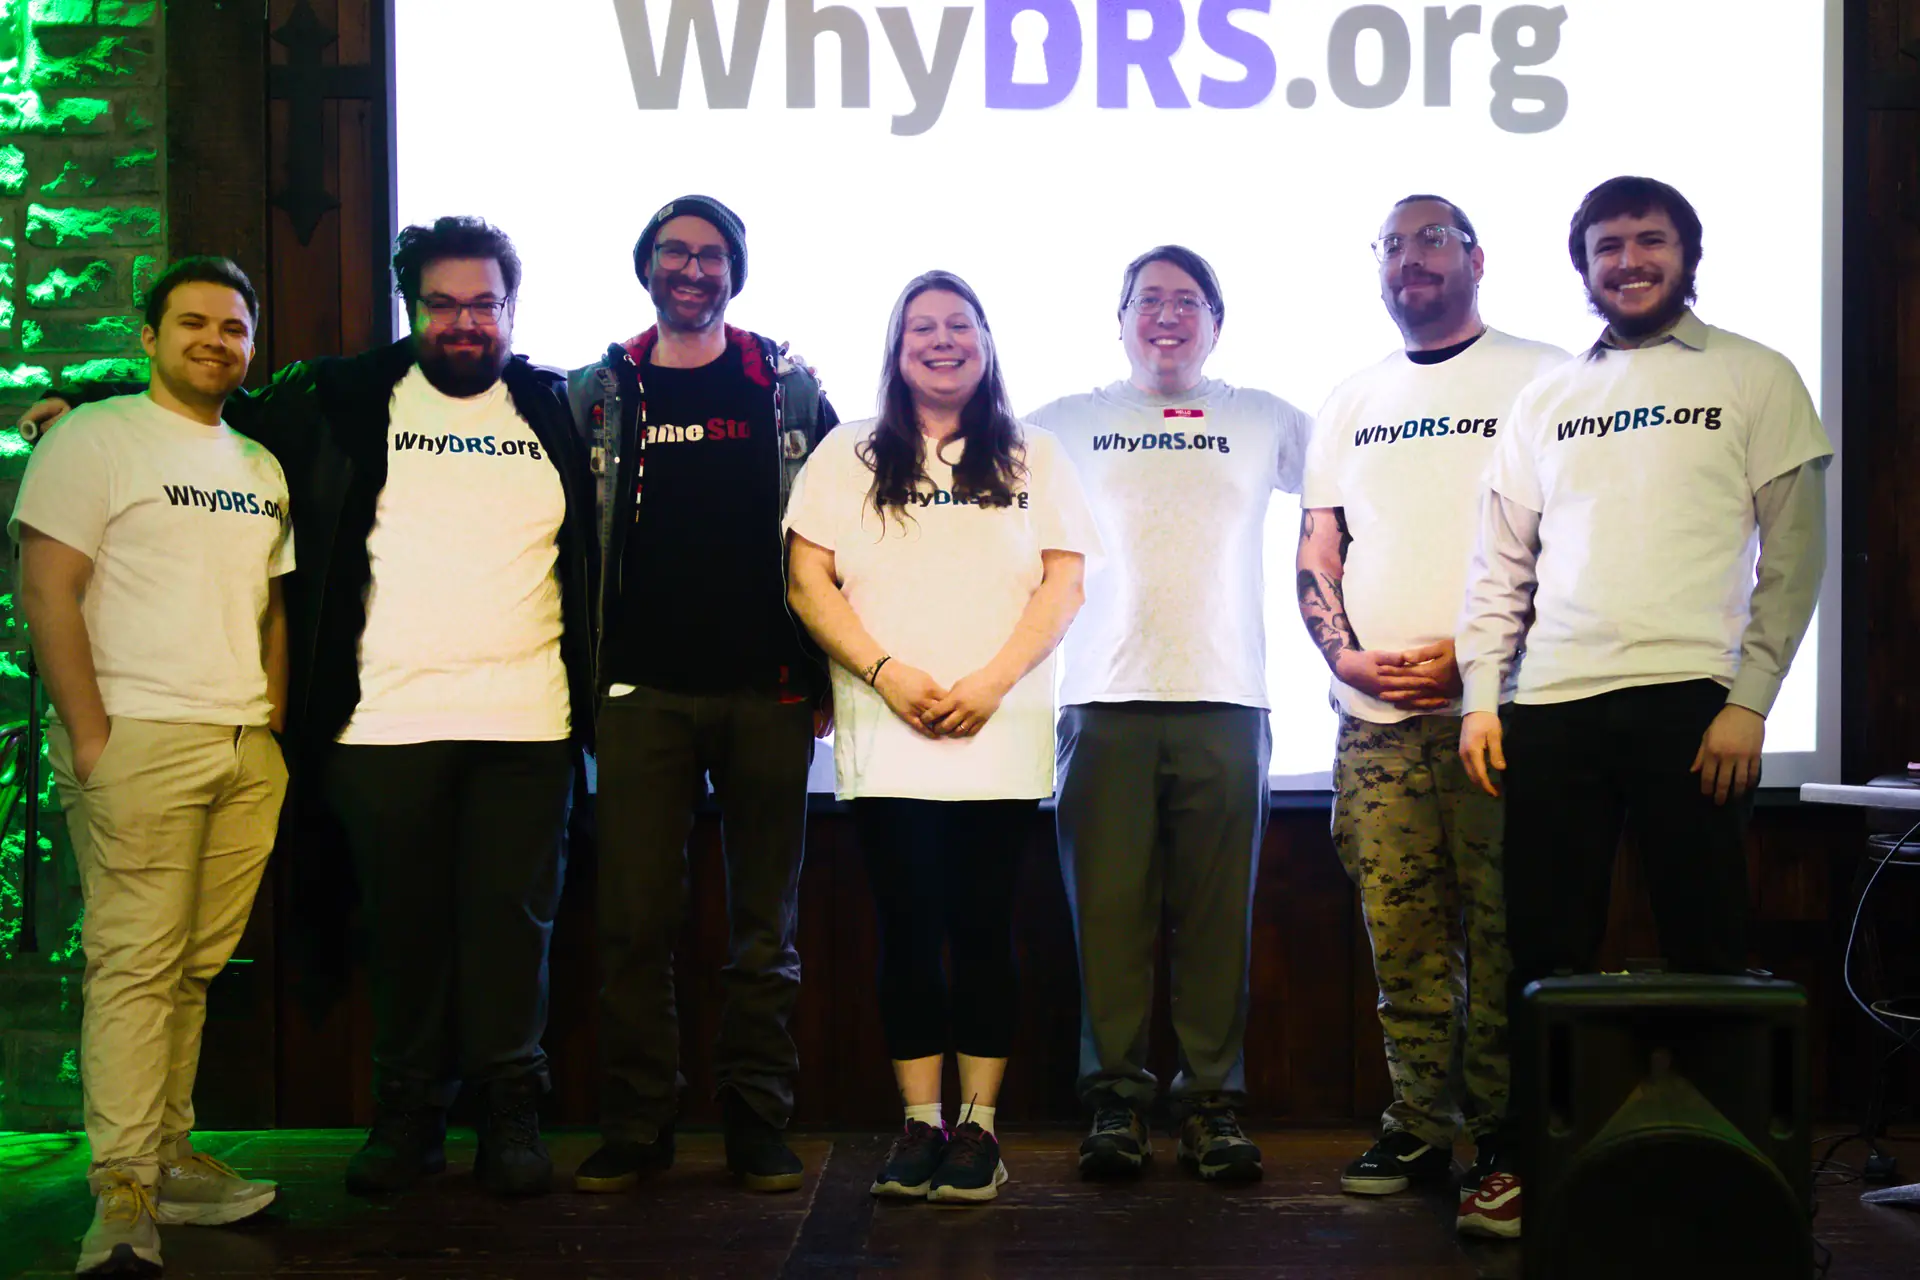
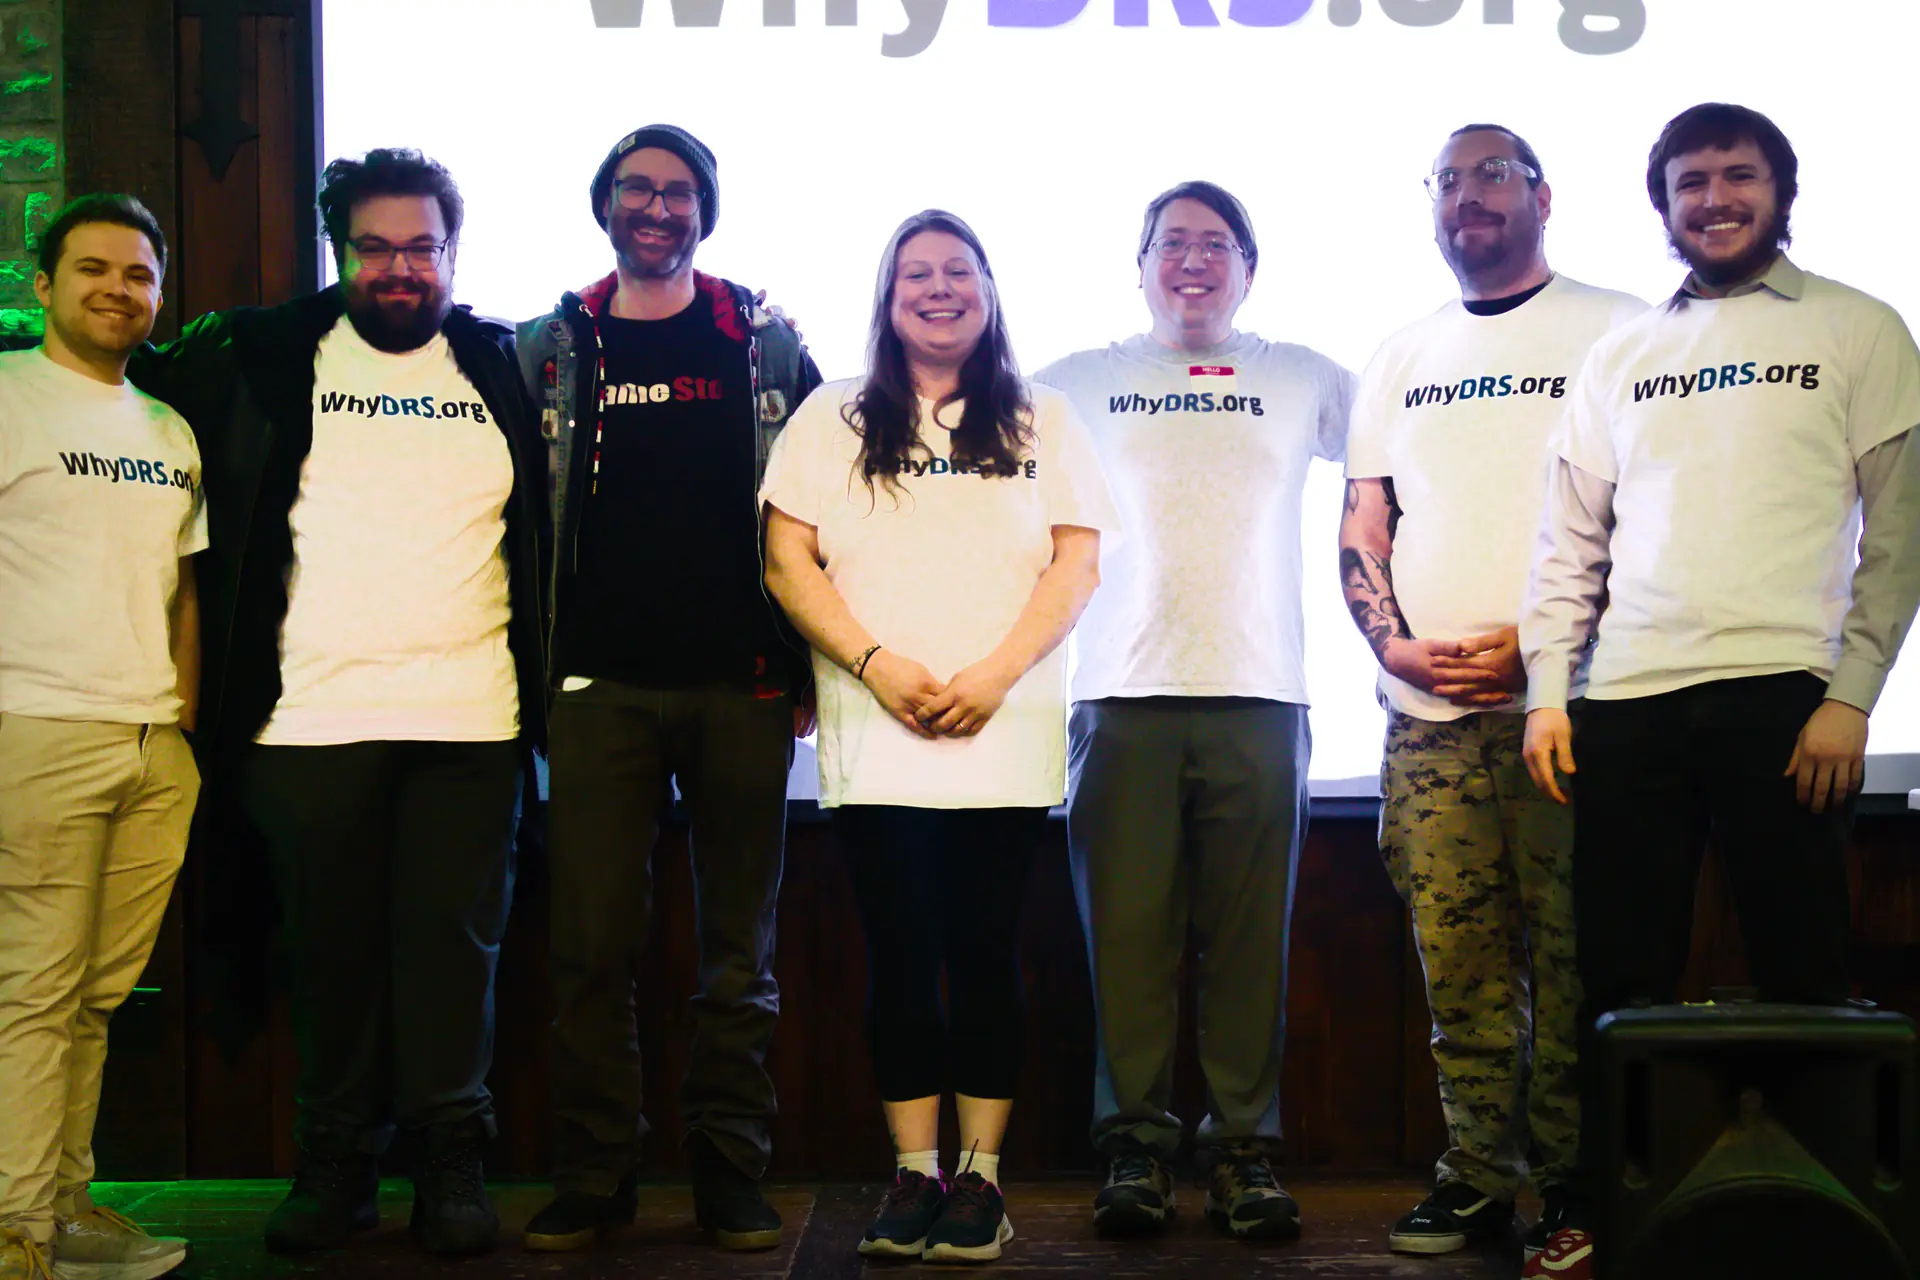
Standardize landing background framing

diff --git a/index.html b/index.html
@@ -327,11 +327,11 @@
       var images = [
         {
           src: "/groups/stellar-consensus-bg.webp",
-          position: "center 62%"
+          position: "center 54%"
         },
         {
           src: "/groups/original-whydrs-bg.webp",
-          position: "center 58%"
+          position: "center 54%"
         }
       ];
       var layerA = document.getElementById("bg-layer-a");
